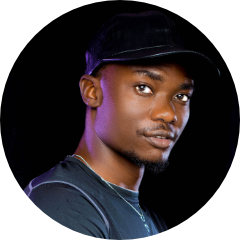
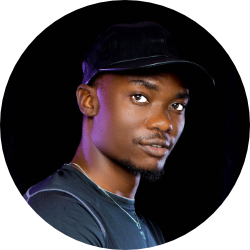
updated home image

diff --git a/projects.html b/projects.html
@@ -138,7 +138,7 @@
                     </div>
                 </div>
                 <div class="col mb-4">
-                    <div><a href="#"><img class="rounded img-fluid shadow w-100 fit-cover" src="assets/img/products/Rufus-Rowe-Printing-House.png"></a>
+                    <div><a href="#"><img class="rounded img-fluid shadow w-100 fit-cover" src="assets/img/products/Rufus-Rowe-Printing-House.jpg"></a>
                         <div class="py-4"><span class="badge bg-primary mb-2">POSTER</span>
                             <h4 class="fw-bold"><span style="color: rgb(255, 255, 255);">RUFUS ROWE PRINTING HOUSE</span></h4>
                             <p class="text-muted"><span style="color: rgb(255, 255, 255);">This is an Ad poster for Rufus Row Printing House located in Malawi, Lilongwe. This advert is streamlined in stationary.</span></p>
@@ -146,7 +146,7 @@
                     </div>
                 </div>
                 <div class="col mb-4">
-                    <div><a href="#"><img class="rounded img-fluid shadow w-100 fit-cover" src="assets/img/products/Nike%20Pro%20Combat%20black.png"></a>
+                    <div><a href="#"><img class="rounded img-fluid shadow w-100 fit-cover" src="assets/img/products/Nike%20Pro%20Combat%20black.jpg"></a>
                         <div class="py-4"><span class="badge bg-primary mb-2">POSTER</span>
                             <h4 class="fw-bold"><span style="color: rgb(255, 255, 255);">NIKE PRO COMBAT</span></h4>
                             <p class="text-muted"><span style="color: rgb(255, 255, 255);">This is a poster created to showcase the capabilities&nbsp;I posses in fine detail of art and text placement. I believe in a simple and clean aesthetic.</span></p>
